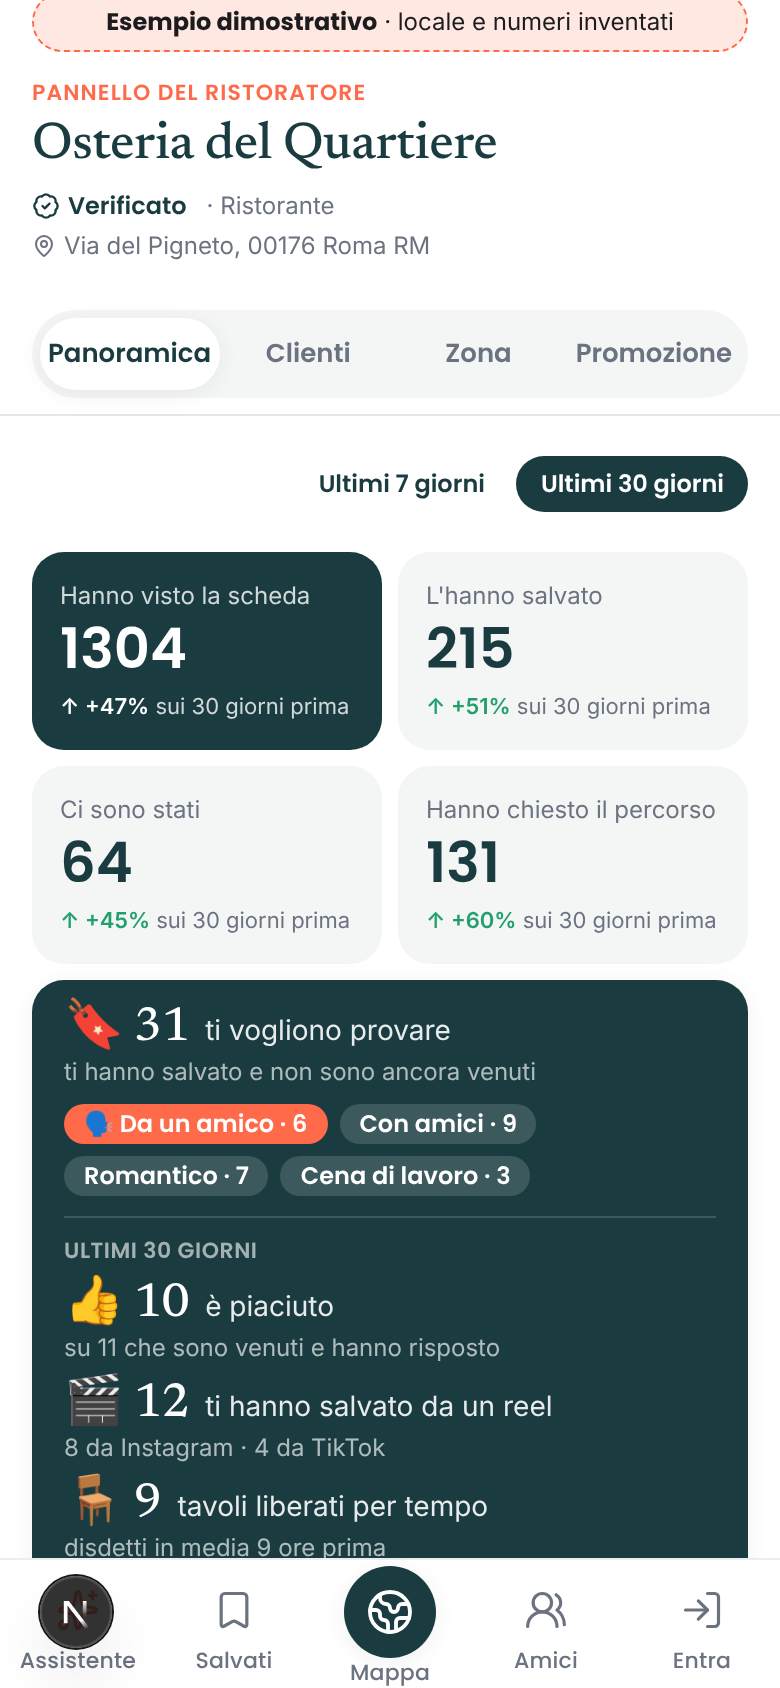
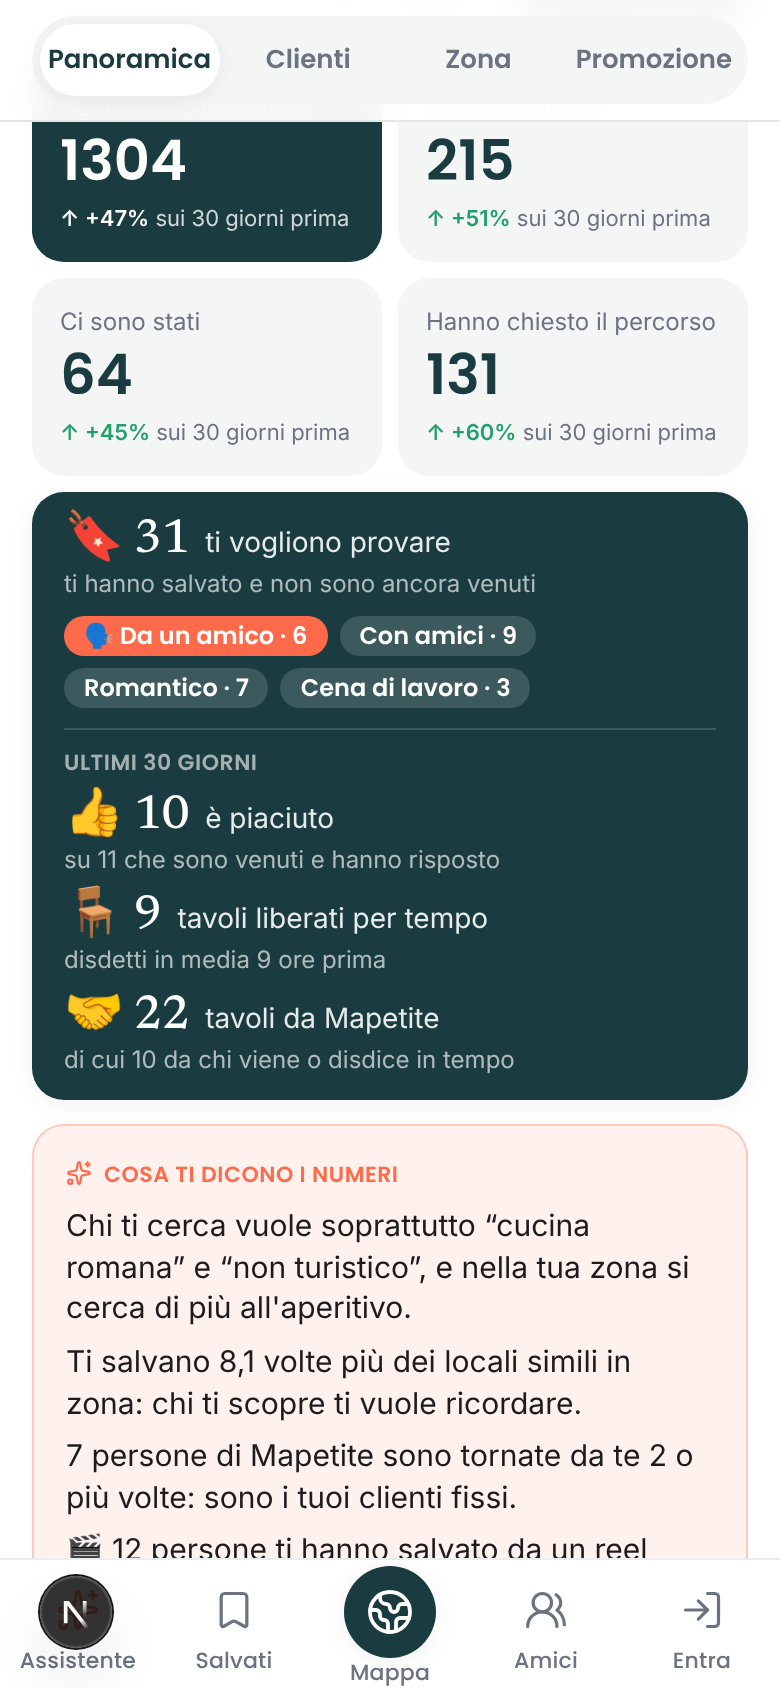
Proposta 76: la frase dei reel in 'Cosa ti dicono i numeri', la prima schermata resta com'era
Claude-Session: https://claude.ai/code/session_01WaRiHs9SKrbTKGNZamdH3n

diff --git a/src/app/ristoratore/pannello.tsx b/src/app/ristoratore/pannello.tsx
@@ -400,7 +400,7 @@ export default function Pannello({
   const parola = tavoli && tavoli.personeParola >= SOGLIA && tavoli.persone - tavoli.personeParola >= SOGLIA ? tavoli.diParola : null;
   // Arrivati dai reel (proposta 76): solo da SOGLIA persone, come gli altri numeri.
   const daReel = reel && reel.persone >= SOGLIA ? reel : null;
-  const primaTavoli = attesa.persone > 0 || risposte >= SOGLIA || p.disdette.n > 0 || !!daReel;
+  const primaTavoli = attesa.persone > 0 || risposte >= SOGLIA || p.disdette.n > 0;
   const panoramica = (
     <>
       <section data-testid="pannello-azioni" aria-label={`Le persone e il tuo locale negli ultimi ${p.giorni} giorni`} className="mt-3 grid grid-cols-2 gap-2">
@@ -434,7 +434,7 @@ export default function Pannello({
           {/* Dal 1/11: il periodo si scrive una volta sola, in testa ai numeri del periodo; ogni riga è
               numero + 2–3 parole, il dettaglio (se serve) su una seconda riga piccola. "Ti vogliono provare"
               resta sopra perché non dipende dal periodo (chi ha salvato e non è ancora venuto, oggi). */}
-          {(risposte >= SOGLIA || p.disdette.n > 0 || tavoli || daReel) && (
+          {(risposte >= SOGLIA || p.disdette.n > 0 || tavoli) && (
             <div data-testid="pannello-periodo" className={attesa.persone > 0 ? "mt-2.5 border-t border-white/15 pt-2" : ""}>
               <p className="text-[11px] font-display font-semibold uppercase tracking-wide text-white/60">Ultimi {p.giorni}{"\u00a0"}giorni</p>
               <ul className="mt-1.5 space-y-2">
@@ -442,10 +442,6 @@ export default function Pannello({
                     con 1 o 2 si riconoscerebbe chi ha risposto. */}
                 {risposte >= SOGLIA && (
                   <Riga testId="pannello-visite-vere" numero={`👍 ${p.visite.piaciuto.toLocaleString("it-IT")}`} testo="è piaciuto" sotto={`su ${risposte.toLocaleString("it-IT")} che sono venuti e hanno risposto`} />
-                )}
-                {/* Arrivati dai reel (proposta 76, PROBLEMI.md 32): se i video che parlano di te portano gente. */}
-                {daReel && (
-                  <Riga testId="pannello-reel" numero={`🎬 ${daReel.persone.toLocaleString("it-IT")}`} testo="salvataggi da un reel" sotto={sottoReel(daReel)} />
                 )}
                 {/* Tavoli liberati per tempo (PROBLEMI.md 1): "Non vado più" invece di non presentarsi. */}
                 {p.disdette.n > 0 && (
@@ -471,13 +467,20 @@ export default function Pannello({
         </section>
       )}
 
-      {frasi.length > 0 && (
+      {(frasi.length > 0 || daReel) && (
         <section data-testid="pannello-insight" className="mt-3 rounded-card border border-accent/30 bg-accent-light/60 p-4">
           <h2 className="flex items-center gap-1.5 text-[11px] font-display font-semibold uppercase tracking-wide text-accent">
             <Sparkles size={13} aria-hidden />Cosa ti dicono i numeri
           </h2>
           <ul className="mt-2 space-y-1.5">
             {frasi.map((f) => <li key={f} className="text-[15px] font-sans leading-snug text-text">{f}</li>)}
+            {/* Arrivati dai reel (proposta 76, PROBLEMI.md 32): se i video che parlano di te portano gente. Qui e non nel
+                riquadro scuro: la prima schermata resta 4 numeri e "Cosa ti dicono i numeri" (feedback 16/10). */}
+            {daReel && (
+              <li data-testid="pannello-reel" className="text-[15px] font-sans leading-snug text-text">
+                {daReel.persone.toLocaleString("it-IT")} persone ti hanno salvato da un reel negli ultimi {p.giorni}{"\u00a0"}giorni{sottoReel(daReel) ? ` (${sottoReel(daReel)})` : ""}.
+              </li>
+            )}
           </ul>
         </section>
       )}
